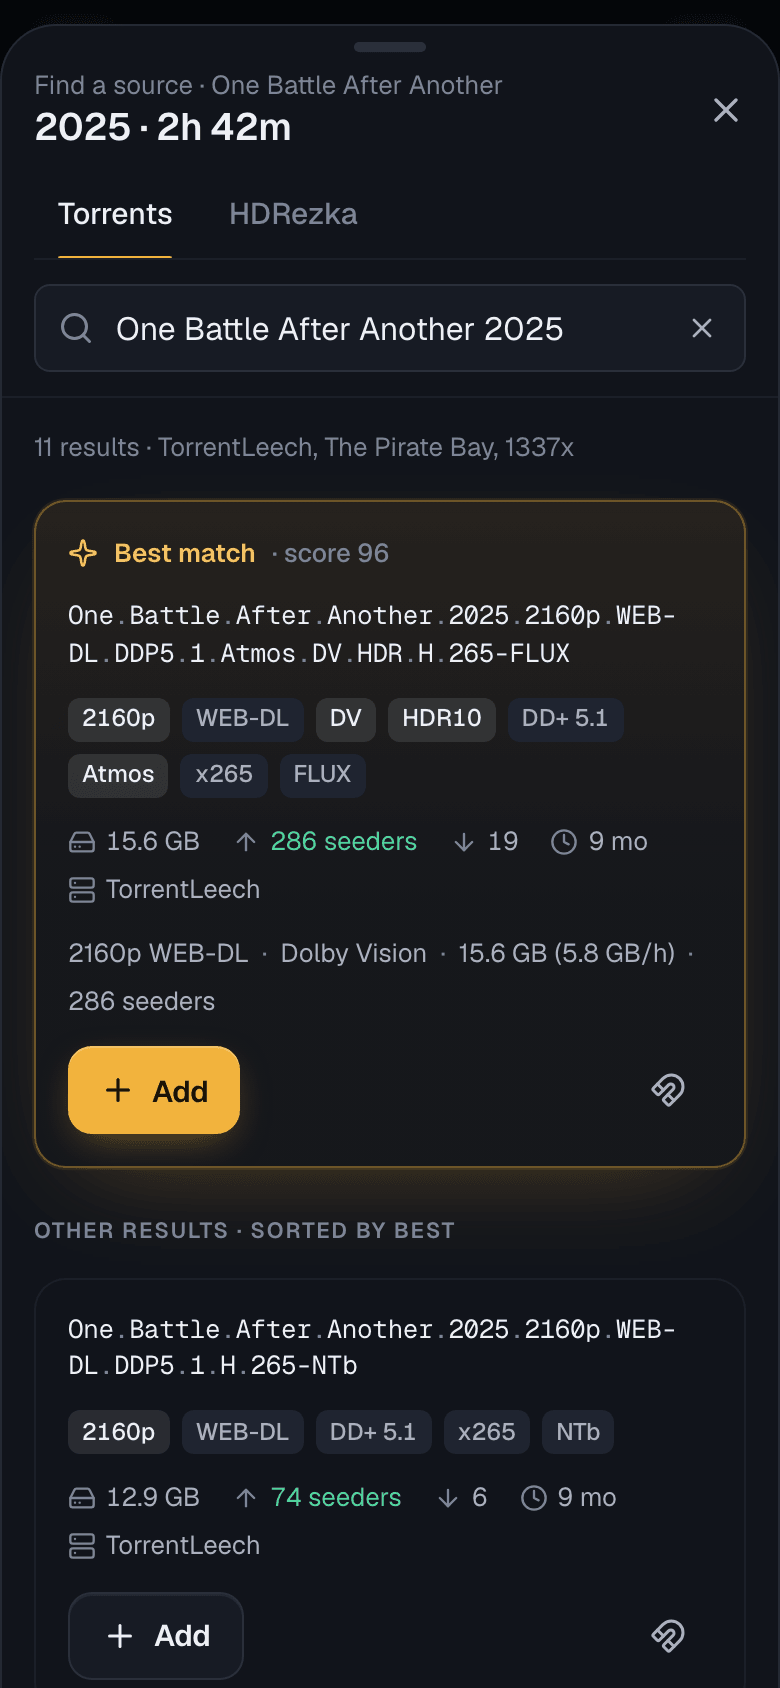
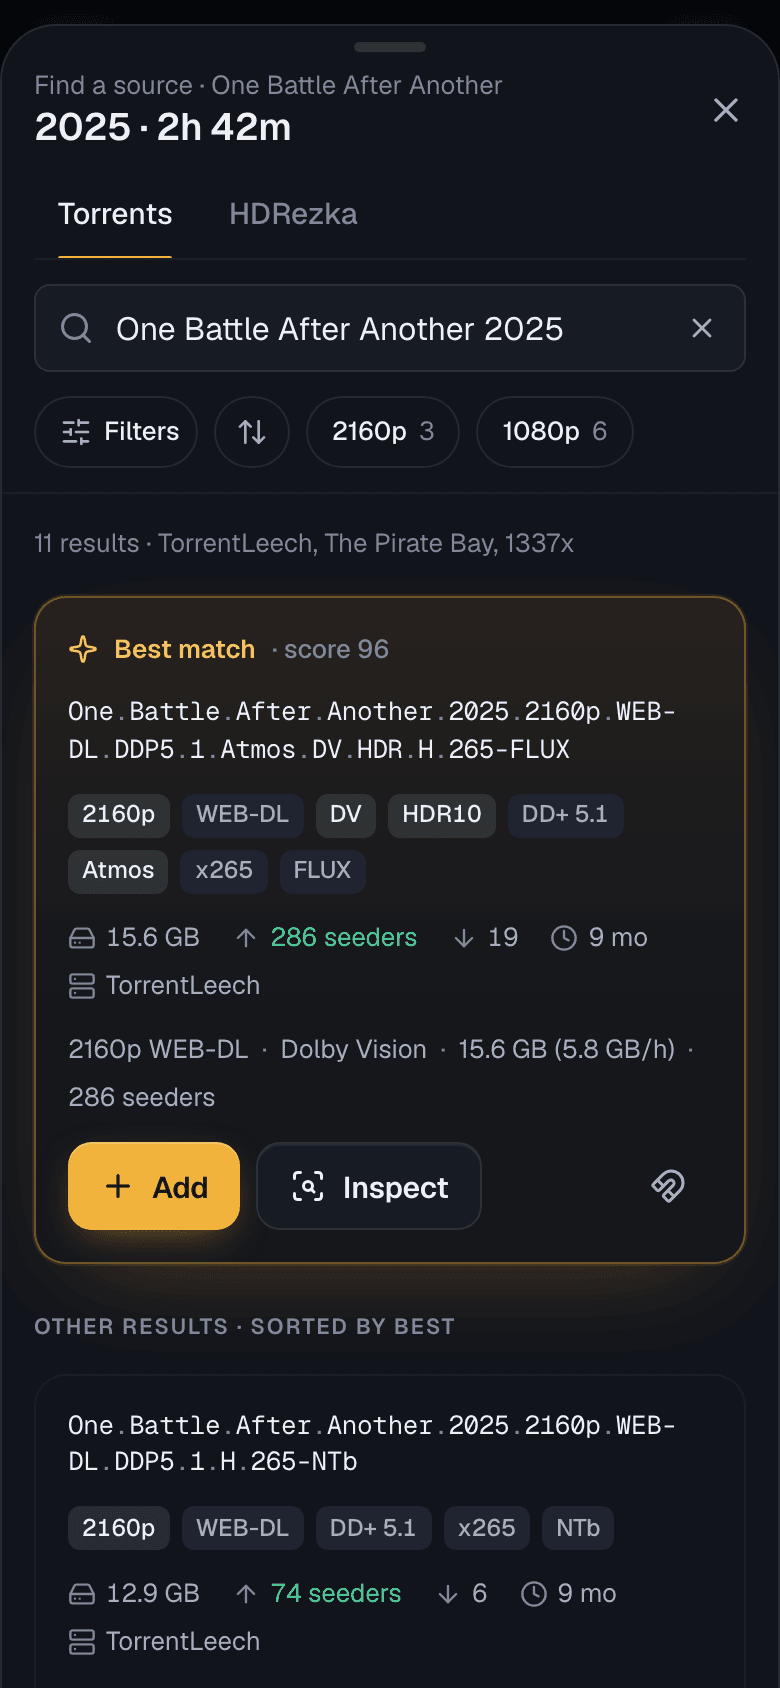
test(web): e2e for filters, sort, filtered-empty and Inspect, with screenshots (#93)
Both projects: a quick chip and its counts, the Filters sheet's draft
(Show N, Cancel, apply, Reset), the Sort sheet, filtered-empty (remove a
chip, Clear all), Inspect of a show's and a movie's release, a failed dry
run, Esc closing only the top sheet with focus back on its opener, and the
quality profile's hidden note; axe and no overflow at 320 px. Screenshots
in docs/screenshots/v2/torrent/ (the earlier states now show the chips).

Claude-Session: https://claude.ai/code/session_01E6UBBW7SwyycSNHAZ4ERNT

diff --git a/web/e2e/torrent-search.spec.ts b/web/e2e/torrent-search.spec.ts
@@ -200,6 +200,213 @@ test.describe('Torrent search', () => {
 });
 
 /**
+ * Filters, sort and Inspect (#93): the chip row, the nested Filters, Sort and
+ * Inspect sheets, and filtered-empty. Frieren's S01E29 has 27 results: 3 in
+ * 2160p, none of them with 100 seeders; its 29–38 batch inspects to 16 files.
+ */
+test.describe('Torrent search: filters, sort and Inspect', () => {
+  const chipRow = (page: Page) => sheet(page).getByRole('group', { name: 'Filter and sort' });
+  const filtersSheet = (page: Page) => page.getByRole('dialog', { name: 'Filters' });
+  const inspectSheet = (page: Page) => page.getByRole('dialog', { name: /^Inspect · nothing downloads yet/ });
+  const status = (page: Page, count: number) => sheet(page).getByText(`${count} results · Nyaa, TorrentLeech, The Pirate Bay`);
+
+  test('a quick chip filters at once, and the counts follow', async ({ page }, testInfo) => {
+    await signIn(page, FRIEREN_E29);
+    const chips = chipRow(page);
+    const uhd = chips.getByRole('button', { name: /^2160p/ });
+    await expect(uhd).toHaveAccessibleName('2160p 3');
+    await expect(chips.getByRole('button', { name: 'Sort: Best' })).toBeVisible();
+    const wide = chips.getByRole('button', { name: /^x265/ });
+    // Codec and Dolby Vision join from 640 px; DV finds nothing here, so it's disabled
+    if (testInfo.project.name === 'mobile') await expect(wide).toBeHidden();
+    else {
+      await expect(wide).toHaveAccessibleName('x265 13');
+      await expect(chips.getByRole('button', { name: /^Dolby Vision/ })).toBeDisabled();
+    }
+
+    await uhd.click();
+    await expect(uhd).toHaveAttribute('aria-pressed', 'true');
+    await expect(status(page, 3)).toBeVisible();
+    await expect(sheet(page).getByRole('article')).toHaveCount(3);
+    await expect(chips.getByRole('button', { name: 'Filters, 1 on' })).toBeVisible();
+    // Disjunctive: 2160p's own facet keeps its counts, the others narrow
+    await expect(chips.getByRole('button', { name: /^1080p/ })).toHaveAccessibleName('1080p 20');
+    if (testInfo.project.name === 'desktop') await expect(wide).toHaveAccessibleName('x265 3');
+    await expectAccessibleAndContained(page);
+
+    await uhd.click();
+    await expect(uhd).toHaveAttribute('aria-pressed', 'false');
+    await expect(status(page, 27)).toBeVisible();
+  });
+
+  test('the Filters sheet edits a draft: Show N counts it, Cancel drops it, Show applies it', async ({ page }) => {
+    await signIn(page, FRIEREN_E29);
+    const opener = chipRow(page).getByRole('button', { name: 'Filters' });
+    await opener.click();
+    const filters = filtersSheet(page);
+    const show = filters.getByRole('button', { name: /^Show / });
+    await expect(show).toHaveText('Show 27 results');
+    await filters.getByRole('group', { name: 'Pack type' }).getByRole('button', { name: /^Season \d/ }).click();
+    await expect(show).toHaveText('Show 7 results');
+    const maximum = filters.getByRole('slider', { name: 'Maximum size' });
+    await expect(maximum).toHaveAttribute('aria-valuetext', 'No maximum');
+    await maximum.fill('50');
+    await expect(maximum).toHaveAttribute('aria-valuetext', '1.4 GB');
+    // Season packs up to 1.4 GB an episode
+    await expect(show).toHaveText('Show 3 results');
+
+    await filters.getByRole('button', { name: 'Cancel' }).click();
+    await expect(filters).toBeHidden();
+    await expect(opener).toBeFocused();
+    await expect(status(page, 27)).toBeVisible();
+
+    // A new draft each time: nothing was applied
+    await opener.click();
+    await expect(show).toHaveText('Show 27 results');
+    await filters.getByRole('group', { name: 'Pack type' }).getByRole('button', { name: /^Season \d/ }).click();
+    await expect(show).toHaveText('Show 7 results');
+    await show.click();
+    await expect(filters).toBeHidden();
+    await expect(status(page, 7)).toBeVisible();
+    await expect(chipRow(page).getByRole('button', { name: 'Filters, 1 on' })).toBeFocused();
+
+    await chipRow(page).getByRole('button', { name: 'Filters, 1 on' }).click();
+    await filters.getByRole('button', { name: 'Reset' }).click();
+    await expect(show).toHaveText('Show 27 results');
+    // Last: the 320 px check swaps the panel for a drawer, which remounts the openers
+    await expectAccessibleAndContained(page);
+  });
+
+  test('the Sort sheet: a pick reorders, closes, and the best match steps aside', async ({ page }) => {
+    await signIn(page, FRIEREN_E29);
+    const opener = chipRow(page).getByRole('button', { name: 'Sort: Best' });
+    await opener.click();
+    const sort = page.getByRole('dialog', { name: 'Sort by' });
+    await expect(sort.getByRole('button', { name: /^Best match/ })).toHaveAttribute('aria-pressed', 'true');
+    await sort.getByRole('button', { name: /^Seeders/ }).click();
+    await expect(sort).toBeHidden();
+    await expect(chipRow(page).getByRole('button', { name: 'Sort: Seeders' })).toBeFocused();
+    await expect(sheet(page).getByRole('heading', { name: 'Results · sorted by seeders' })).toBeVisible();
+    await expect(sheet(page).getByText(/Best match/)).toHaveCount(0);
+    const cards = sheet(page).getByRole('article');
+    await expect(cards.nth(0)).toHaveAccessibleName(BATCH);
+    await expect(cards.nth(1)).toHaveAccessibleName('[SubsPlease] Sousou no Frieren - 29 (1080p) [9E3C5D21].mkv');
+
+    await chipRow(page).getByRole('button', { name: 'Sort: Seeders' }).click();
+    await sort.getByRole('button', { name: /^Size/ }).click();
+    await expect(sheet(page).getByRole('heading', { name: 'Results · sorted by size' })).toBeVisible();
+    await expect(cards.nth(0)).toHaveAccessibleName('[MiniFreeza] Frieren - 29 [480p HEVC]');
+
+    await chipRow(page).getByRole('button', { name: 'Sort: Size' }).click();
+    await expect(sort.getByRole('button', { name: /^Size/ })).toHaveAttribute('aria-pressed', 'true');
+    await expectAccessibleAndContained(page);
+  });
+
+  test('filtered to nothing: the filters by name, removable, then Clear all', async ({ page }) => {
+    await signIn(page, FRIEREN_E29);
+    await chipRow(page).getByRole('button', { name: 'Filters' }).click();
+    const filters = filtersSheet(page);
+    await filters.getByRole('group', { name: 'Resolution' }).getByRole('button', { name: /^2160p/ }).click();
+    await filters.getByRole('group', { name: 'Minimum seeders' }).getByRole('button', { name: '100+' }).click();
+    await filters.getByRole('slider', { name: 'Maximum size' }).fill('44');
+    await filters.getByRole('button', { name: 'Show 0 results' }).click();
+
+    const dialog = sheet(page);
+    await expect(dialog.getByRole('heading', { name: 'Your filters hide all 27 results' })).toBeVisible();
+    await expect(dialog.getByText('2160p, Up to 1 GB and 100+ seeders together match nothing for this episode.')).toBeVisible();
+    const active = dialog.getByRole('group', { name: 'Active filters' });
+    await expect(active.getByRole('button')).toHaveText(['2160p', 'Up to 1 GB', '100+ seeders']);
+    await expectAccessibleAndContained(page);
+
+    await active.getByRole('button', { name: '100+ seeders' }).click();
+    await expect(dialog.getByText('2160p and Up to 1 GB together match nothing for this episode.')).toBeVisible();
+    await expect(chipRow(page).getByRole('button', { name: 'Filters, 2 on' })).toBeVisible();
+
+    await dialog.getByRole('button', { name: 'Clear all filters' }).click();
+    await expect(status(page, 27)).toBeVisible();
+    await expect(chipRow(page).getByRole('button', { name: 'Filters' })).toBeVisible();
+  });
+
+  test('Inspect a show’s release: the steps and groups, then Add & review mapping', async ({ page }) => {
+    await signIn(page, FRIEREN_E29);
+    await sheet(page).getByRole('article', { name: BATCH }).getByRole('button', { name: 'Inspect' }).click();
+    const inspect = inspectSheet(page);
+    await expect(inspect).toHaveAccessibleName(/^Inspect · nothing downloads yet 16 files · \d+\.\d GB$/, { timeout: 15_000 });
+    await expect(inspect.getByText('Asked AI about 3 tricky ones')).toBeVisible();
+    const willMap = inspect.getByRole('list', { name: 'Will map · 9 episodes' });
+    await expect(willMap.getByRole('listitem').first()).toContainText('S01E29 Let’s Go Somewhere We Can’t Reach');
+    await expect(willMap.getByText('+ 5 more, all high confidence')).toBeVisible();
+    await expect(inspect.getByRole('list', { name: 'You’ll review · 3 files' })).toContainText('AI: "v2" is a re-release of #35');
+    await expect(inspect.getByRole('list', { name: 'Specials · 1' })).toContainText('S00E06');
+    await expect(inspect.getByRole('list', { name: 'Ignored · 3' })).toContainText('Opening (creditless)');
+    await expectAccessibleAndContained(page);
+
+    await inspect.getByRole('button', { name: 'Add & review mapping' }).click();
+    await expect(page).toHaveURL(/\/mapping\/\d+$/);
+    await expect(page.getByText(BATCH).first()).toBeVisible();
+  });
+
+  test('Inspect a movie’s release: the file it would use, then Add & download', async ({ page }) => {
+    await signIn(page, BATTLE);
+    const best = sheet(page).getByRole('article', { name: BATTLE_BEST });
+    await best.getByRole('button', { name: 'Inspect' }).click();
+    const inspect = inspectSheet(page);
+    await expect(inspect).toHaveAccessibleName(/2 files · 14\.3 GB$/, { timeout: 15_000 });
+    await expect(inspect.getByRole('list', { name: 'Will map · 1 file' })).toContainText('One Battle After Another');
+    await expect(inspect.getByRole('list', { name: 'Ignored · 1' })).toContainText('Sample');
+    await expectAccessibleAndContained(page);
+
+    await inspect.getByRole('button', { name: 'Add & download' }).click();
+    await expect(page.getByRole('status').filter({ hasText: 'Torrent assigned to movie' })).toBeVisible({ timeout: 20_000 });
+    await expect(inspect).toBeHidden();
+    await expect(best.getByText('Added')).toBeVisible();
+  });
+
+  test('a dry run that fails says why, with Retry', async ({ page }) => {
+    await scenario(page, 'job-failed');
+    await signIn(page, FRIEREN_E29);
+    await sheet(page).getByRole('article', { name: BATCH }).getByRole('button', { name: 'Inspect' }).click();
+    const alert = inspectSheet(page).getByRole('alert');
+    await expect(alert).toContainText('Couldn’t look inside this torrent');
+    await expect(alert).toContainText('No peers sent the torrent’s file list within 60 s.');
+    await expect(alert.getByRole('button', { name: 'Retry' })).toBeVisible();
+  });
+
+  test('nested sheets: Esc closes only the top one, and focus goes back to its opener', async ({ page }) => {
+    await signIn(page, FRIEREN_E29);
+    const filtersChip = chipRow(page).getByRole('button', { name: 'Filters' });
+    await filtersChip.click();
+    await expect(filtersSheet(page)).toBeVisible();
+    await page.keyboard.press('Escape');
+    await expect(filtersSheet(page)).toBeHidden();
+    await expect(sheet(page)).toBeVisible();
+    await expect(filtersChip).toBeFocused();
+
+    const inspectButton = sheet(page).getByRole('article', { name: BATCH }).getByRole('button', { name: 'Inspect' });
+    await inspectButton.click();
+    await expect(inspectSheet(page)).toBeVisible();
+    await page.keyboard.press('Escape');
+    await expect(inspectSheet(page)).toBeHidden();
+    await expect(sheet(page)).toBeVisible();
+    await expect(inspectButton).toBeFocused();
+
+    // One more Esc closes the search itself
+    await page.keyboard.press('Escape');
+    await expect(sheet(page)).toBeHidden();
+  });
+
+  test('what the quality profile hid, when nothing else is left', async ({ page }) => {
+    await signIn(page, BATTLE);
+    const field = sheet(page).getByRole('searchbox', { name: 'Search releases' });
+    await field.fill('HDCAM');
+    await field.press('Enter');
+    await expect(sheet(page).getByRole('heading', { name: 'No releases for “HDCAM”' })).toBeVisible();
+    await expect(sheet(page).getByText('1 hidden by your quality profile')).toBeVisible();
+    await expect(sheet(page).getByRole('link', { name: 'Quality settings' })).toHaveAttribute('href', '/settings?section=quality');
+  });
+});
+
+/**
  * PR screenshots of the sheet's states at 390 and 1440, written to
  * docs/screenshots/v2/torrent/. Skipped in normal runs:
  *   SCREENSHOTS=1 npx playwright test torrent-search && node scripts/optimize-screenshots.mjs ../docs/screenshots/v2/torrent
@@ -250,5 +457,52 @@ test.describe('Torrent search screenshots', () => {
     await signIn(page, BATTLE);
     await expect(sheet(page).getByRole('article', { name: BATTLE_BEST })).toBeVisible();
     await shoot(page, testInfo, 'movie');
+  });
+
+  test('filters', async ({ page }, testInfo) => {
+    await signIn(page, FRIEREN_E29);
+    await sheet(page).getByRole('button', { name: 'Filters' }).click();
+    await expect(page.getByRole('dialog', { name: 'Filters' }).getByRole('button', { name: 'Show 27 results' })).toBeVisible();
+    await shoot(page, testInfo, 'filters');
+  });
+
+  test('sort', async ({ page }, testInfo) => {
+    await signIn(page, FRIEREN_E29);
+    await sheet(page).getByRole('button', { name: 'Sort: Best' }).click();
+    await expect(page.getByRole('dialog', { name: 'Sort by' })).toBeVisible();
+    await shoot(page, testInfo, 'sort');
+  });
+
+  test('filtered-empty', async ({ page }, testInfo) => {
+    await signIn(page, FRIEREN_E29);
+    await sheet(page).getByRole('button', { name: 'Filters' }).click();
+    const filters = page.getByRole('dialog', { name: 'Filters' });
+    await filters.getByRole('group', { name: 'Resolution' }).getByRole('button', { name: /^2160p/ }).click();
+    await filters.getByRole('group', { name: 'Minimum seeders' }).getByRole('button', { name: '100+' }).click();
+    await filters.getByRole('button', { name: 'Show 0 results' }).click();
+    await expect(sheet(page).getByRole('heading', { name: 'Your filters hide all 27 results' })).toBeVisible();
+    await shoot(page, testInfo, 'filtered-empty');
+  });
+
+  test('inspect-working', async ({ page }, testInfo) => {
+    await scenario(page, 'job-hold:classifying');
+    await signIn(page, FRIEREN_E29);
+    await sheet(page).getByRole('article', { name: BATCH }).getByRole('button', { name: 'Inspect' }).click();
+    await expect(page.getByRole('dialog', { name: /^Inspect/ }).getByText('Fetched file list')).toBeVisible({ timeout: 15_000 });
+    await shoot(page, testInfo, 'inspect-working');
+  });
+
+  test('inspect', async ({ page }, testInfo) => {
+    await signIn(page, FRIEREN_E29);
+    await sheet(page).getByRole('article', { name: BATCH }).getByRole('button', { name: 'Inspect' }).click();
+    await expect(page.getByRole('dialog', { name: /16 files/ }).getByRole('heading', { name: 'Will map · 9 episodes' })).toBeVisible({ timeout: 15_000 });
+    await shoot(page, testInfo, 'inspect');
+  });
+
+  test('inspect-movie', async ({ page }, testInfo) => {
+    await signIn(page, BATTLE);
+    await sheet(page).getByRole('article', { name: BATTLE_BEST }).getByRole('button', { name: 'Inspect' }).click();
+    await expect(page.getByRole('dialog', { name: /2 files/ }).getByRole('heading', { name: 'Will map · 1 file' })).toBeVisible({ timeout: 15_000 });
+    await shoot(page, testInfo, 'inspect-movie');
   });
 });
